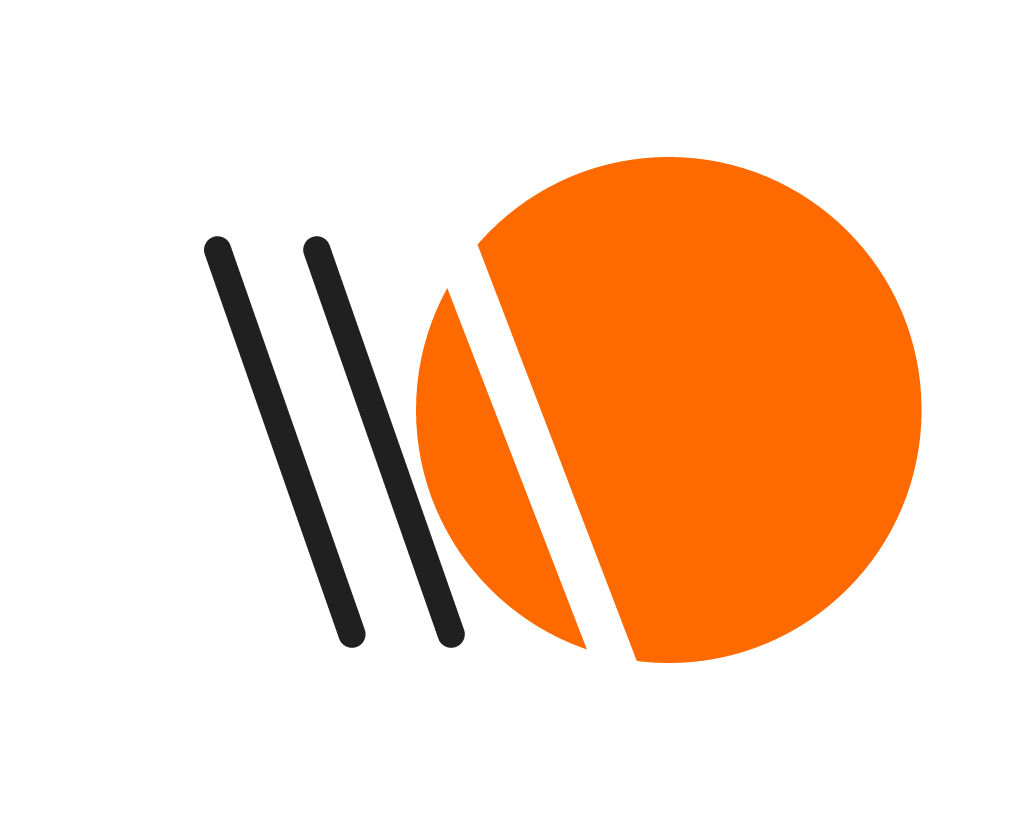
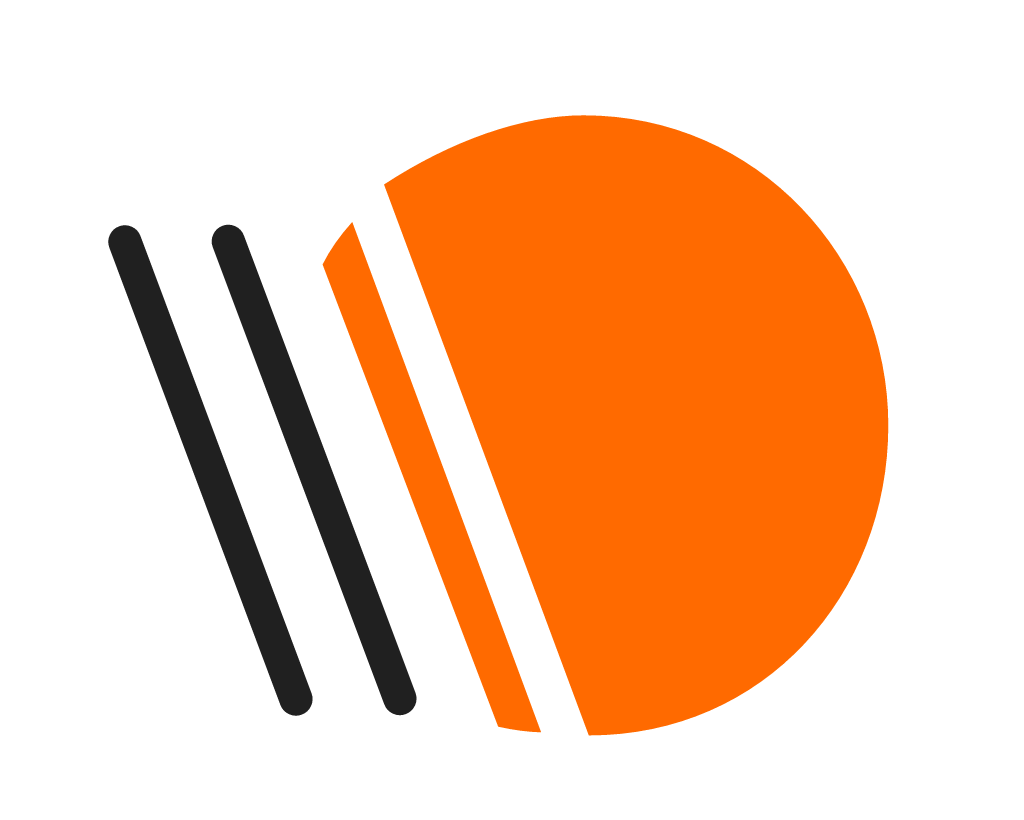
fix(brand): trace approved Concept 01 silhouette from founder reference

Changed region(s): [[0.0938, 0.122, 0.8125, 0.9146], [0.7812, 0.2439, 0.9062, 0.7317], [0.75, 0.2134, 0.7812, 0.2439]]

diff --git a/tests/test_medorigin_brand_identity.py b/tests/test_medorigin_brand_identity.py
@@ -1,57 +1,62 @@
-"""Lock the founder-approved MedOrigin Concept 01 geometry in the source repo."""
+"""Protect the approved MedOrigin Concept 01 reference-derived geometry."""
 
 import xml.etree.ElementTree as ET
 from pathlib import Path
 
+import pytest
+
 ROOT = Path(__file__).resolve().parents[1] / "assets" / "brand"
 SVG = "{http://www.w3.org/2000/svg}"
+CIRCLE = (
+    "M125 307 C138 298.5 152 293.5 164 293.5 "
+    "C198 293.5 223.5 321.5 223.5 354 "
+    "C223.5 387 199.3 414.5 165 414.5 Z"
+)
+WEDGE = "M118.8 314.3 L155.7 413.9 Q151.8 413.8 147.3 412.8 L113 322.6 Q115.1 318.4 118.8 314.3 Z"
+DARK_LINES = (
+    "M74.4 318.2 L107.8 407.4",
+    "M94.6 318.1 L128.1 407.3",
+)
 
 
-def _read_asset(name: str) -> ET.Element:
-    return ET.parse(ROOT / name).getroot()
-
-
-def test_two_visible_strokes_and_transparent_third_slash() -> None:
-    icon = _read_asset("medorigin-symbol.svg")
-    strokes = [e for e in icon.iter(f"{SVG}g") if e.get("stroke") == "#202020"]
-    assert len(strokes) == 1
-    lines = strokes[0].findall(f"{SVG}path")
-    assert [p.get("d") for p in lines] == [
-        "M68 78 L110 198",
-        "M99 78 L141 198",
+@pytest.mark.parametrize(
+    ("name", "stroke"),
+    [
+        ("medorigin-symbol.svg", "#202020"),
+        ("medorigin-lockup-horizontal.svg", "#202020"),
+        ("medorigin-lockup-stacked.svg", "#202020"),
+        ("medorigin-app-icon.svg", "#202020"),
+        ("medorigin-lockup-inverse.svg", "#FFFFFF"),
+    ],
+)
+def test_mark_matches_approved_reference(name: str, stroke: str) -> None:
+    root = ET.parse(ROOT / name).getroot()
+    transformed = [
+        g for g in root.iter(f"{SVG}g") if g.get("transform") == "translate(-80 -433.6) scale(1.6)"
     ]
-    assert strokes[0].get("stroke-width") == "8.5"
-    clips = list(icon.iter(f"{SVG}clipPath"))
-    assert len(clips) == 1
-    disc = clips[0].find(f"{SVG}circle")
-    assert disc is not None
-    assert (disc.get("cx"), disc.get("cy"), disc.get("r")) == (
-        "209",
-        "128",
-        "79",
-    )
-    filled = [g for g in icon.iter(f"{SVG}g") if g.get("fill") == "#FF6A00"]
-    assert len(filled) == 1
-    assert filled[0].get("clip-path") == "url(#mo-disc)"
-    assert len(filled[0].findall(f"{SVG}path")) == 2
+    assert len(transformed) == 1, name
+    mark = transformed[0]
+
+    orange = [g for g in mark.findall(f"{SVG}g") if g.get("fill") == "#FF6A00"]
+    assert len(orange) == 1, name
+    assert [p.get("d") for p in orange[0].findall(f"{SVG}path")] == [
+        CIRCLE,
+        WEDGE,
+    ]
+
+    dark = [g for g in mark.findall(f"{SVG}g") if g.get("stroke") == stroke]
+    assert len(dark) == 1, name
+    assert dark[0].get("stroke-width") == "6.5"
+    assert dark[0].get("stroke-linecap") == "round"
+    assert tuple(p.get("d") for p in dark[0].findall(f"{SVG}path")) == DARK_LINES
+
+    # No legacy clipped-circle mark, third black stroke or painted white gap.
+    assert not list(mark.iter(f"{SVG}clipPath"))
+    assert not list(mark.iter(f"{SVG}circle"))
+
+
+def test_brand_guidance_preserves_filled_wedge() -> None:
     guidance = (ROOT / "README.md").read_text(encoding="utf8").lower()
-    assert "two visible" in guidance
-    assert "negative-space (transparent) cut" in guidance
-
-
-def test_all_lockups_share_corrected_mark() -> None:
-    for name in (
-        "medorigin-lockup-horizontal.svg",
-        "medorigin-lockup-stacked.svg",
-        "medorigin-app-icon.svg",
-        "medorigin-lockup-inverse.svg",
-    ):
-        root = _read_asset(name)
-        clips = list(root.iter(f"{SVG}clipPath"))
-        assert len(clips) == 1, name
-        assert len(list(root.iter(f"{SVG}circle"))) == 1, name
-        dark_or_white_strokes = [
-            g for g in root.iter(f"{SVG}g") if g.get("stroke") in {"#202020", "#FFFFFF"}
-        ]
-        assert len(dark_or_white_strokes) == 1, name
-        assert len(dark_or_white_strokes[0].findall(f"{SVG}path")) == 2, name
+    assert "two equal charcoal" in guidance
+    assert "orange wedge" in guidance
+    assert "never overlap" in guidance

diff --git a/assets/brand/README.md b/assets/brand/README.md
@@ -1,23 +1,19 @@
-# MedOrigin — Official Visual Identity 01 (reference matched)
+# MedOrigin official visual identity — Concept 01, reference-traced
 
-Founder-approved concept 01 / Overlap Forward, 23 October 2026.
+The symbol matches the founder-approved reference: TWO equal charcoal parallel
+strokes on the left, and a separated narrow orange wedge (the third line)
+beside the large orange circular field. The third line is orange, not black.
+The transparent diagonal space separates the orange wedge from the circular
+field. The black strokes never overlap the orange area.
 
-The canonical symbol has TWO visible, equally sized, parallel charcoal
-diagonal strokes to the LEFT of a filled orange circle. A THIRD angled
-negative-space (transparent) cut crosses the LEFT edge of the orange disc.
-A thin orange segment remains on the outside of the transparent cut.
-Do NOT replace the negative-space cut with a third charcoal stroke or place
-three black strokes on the orange circle.
+This replaces the incorrect prior disc-based mark and restores the original
+reference silhouette, including relative line lengths and placements.
 
-Colors: primary orange #FF6A00, charcoal #202020, paper #FAF7F3.
-SVG masters are vector based, font independent, and use a real transparent
-cut so they work on light and dark backgrounds. Inverse lockup uses white
-visible lines and wordmark. No gradient, glow, 3D, shadow, navy, or web font.
+Colors: orange #FF6A00, charcoal #202020, paper #FAF7F3.
+SVG masters are editable and font-independent. Other PNG/ICO assets are
+regenerated exports. No navy, gradients, shadows or 3D.
 
-Canonical files are medorigin-symbol.svg, medorigin-wordmark.svg,
+Canonical assets: medorigin-symbol.svg, medorigin-wordmark.svg,
 medorigin-lockup-horizontal.svg, medorigin-lockup-stacked.svg,
-medorigin-lockup-inverse.svg and medorigin-app-icon.svg. Other PNG, favicon
-and preview outputs are reproducible exports.
-
-Brand identity is not a clinical, scientific or release authorization.
-Source provenance and historical attribution remain unchanged.
+medorigin-lockup-inverse.svg, medorigin-app-icon.svg.
+Brand is not clinical or scientific approval and grants no release.

diff --git a/docs/BRAND_TRANSITION.md b/docs/BRAND_TRANSITION.md
@@ -15,8 +15,9 @@ Use **MedOrigin** in new public-facing product documentation, repository metadat
 ## Official visual identity
 
 The founder-approved MedOrigin identity (Concept 01 / Overlap Forward) is published
-in [assets/brand](../assets/brand/README.md). The canonical mark has two visible equal charcoal diagonal strokes to the left
-of an orange circle, with a third transparent slash cutting the circle edge.
+in [assets/brand](../assets/brand/README.md). The canonical mark uses two equal charcoal diagonal strokes to the left of a
+separate orange wedge and an orange circular field, with a transparent diagonal
+gap between the wedge and the circular field, matching the approved reference.
 Use orange `#FF6A00`, charcoal `#202020`, and warm paper `#FAF7F3`.
 All MedOrigin wordmark files are self-contained outlined SVGs; no font file is
 redistributed. The approved assets do not imply clinical validation or publication.
